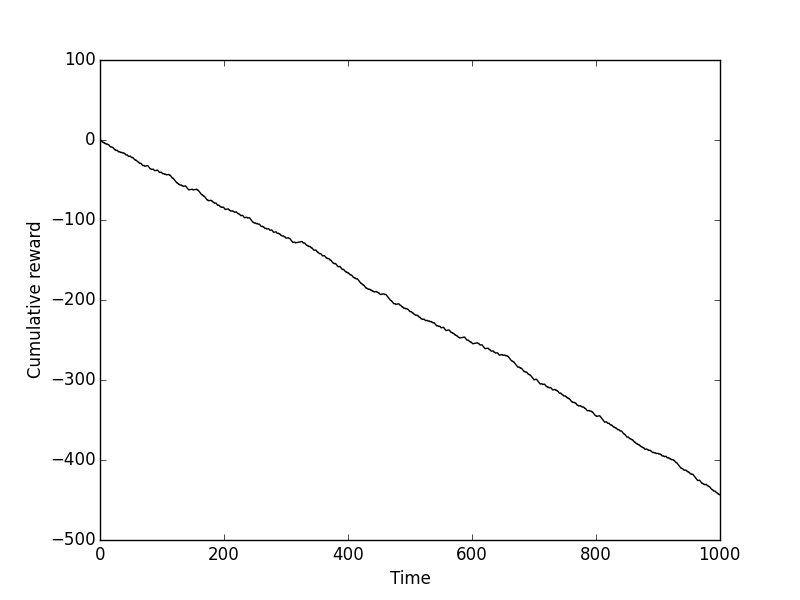
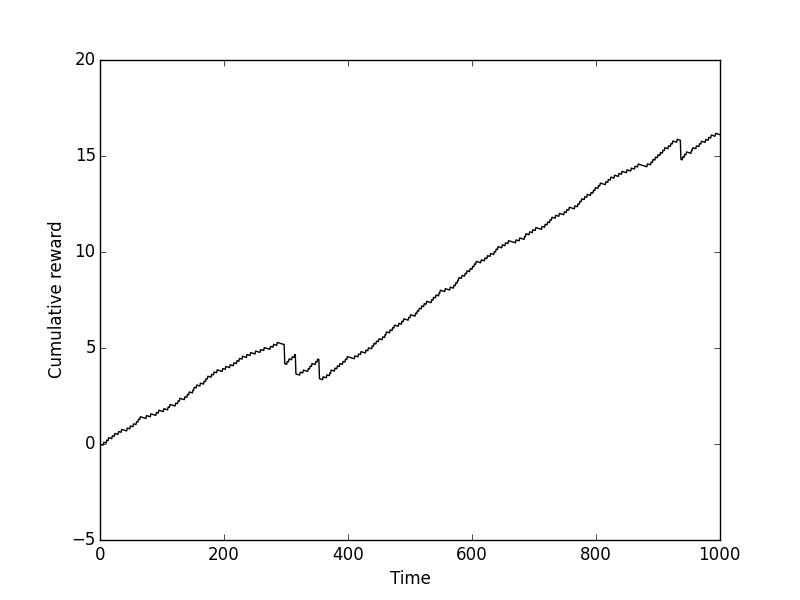
update

diff --git a/test_probabilistic_categorization.py b/test_probabilistic_categorization.py
@@ -7,7 +7,7 @@ from analysis import Analysis
 ###########
 # Parameter specification
 
-train_iter = 1*10**4 # number of training iterations
+train_iter = 2*10**4 # number of training iterations
 test_iter = 1*10**3 # number of test iterations
 
 ###########
@@ -23,8 +23,7 @@ model = models.RNN_Elman(task.ninput, 5, task.noutput)
 ##########
 # Agent specification
 
-#agent = agents.AACAgent(model)
-agent = agents.SupervisedAgent(model)
+agent = agents.AACAgent(model)
 
 ###########
 # Train agent on an environment
